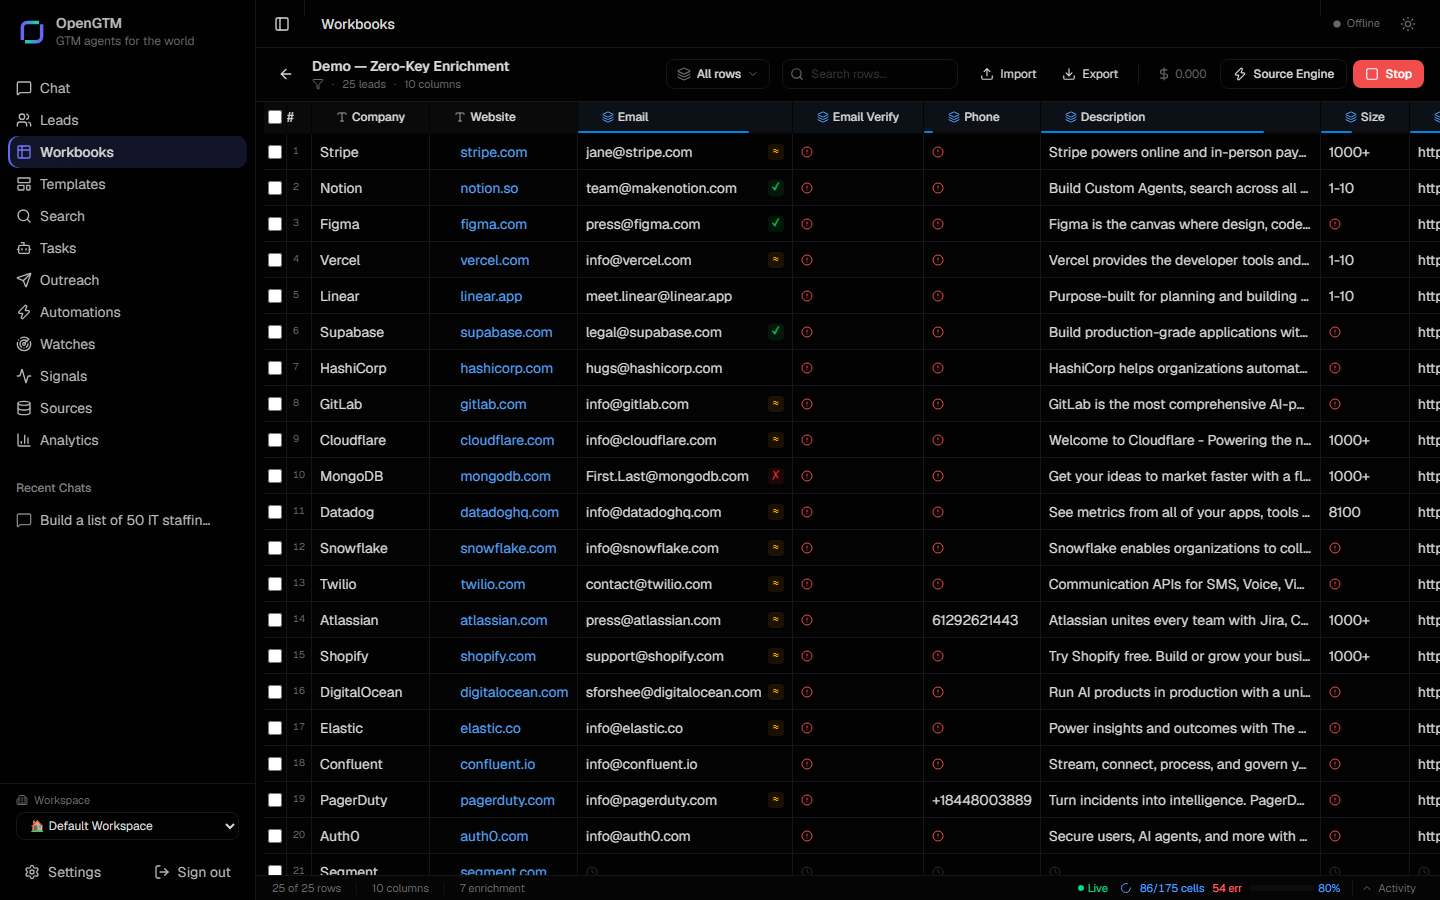
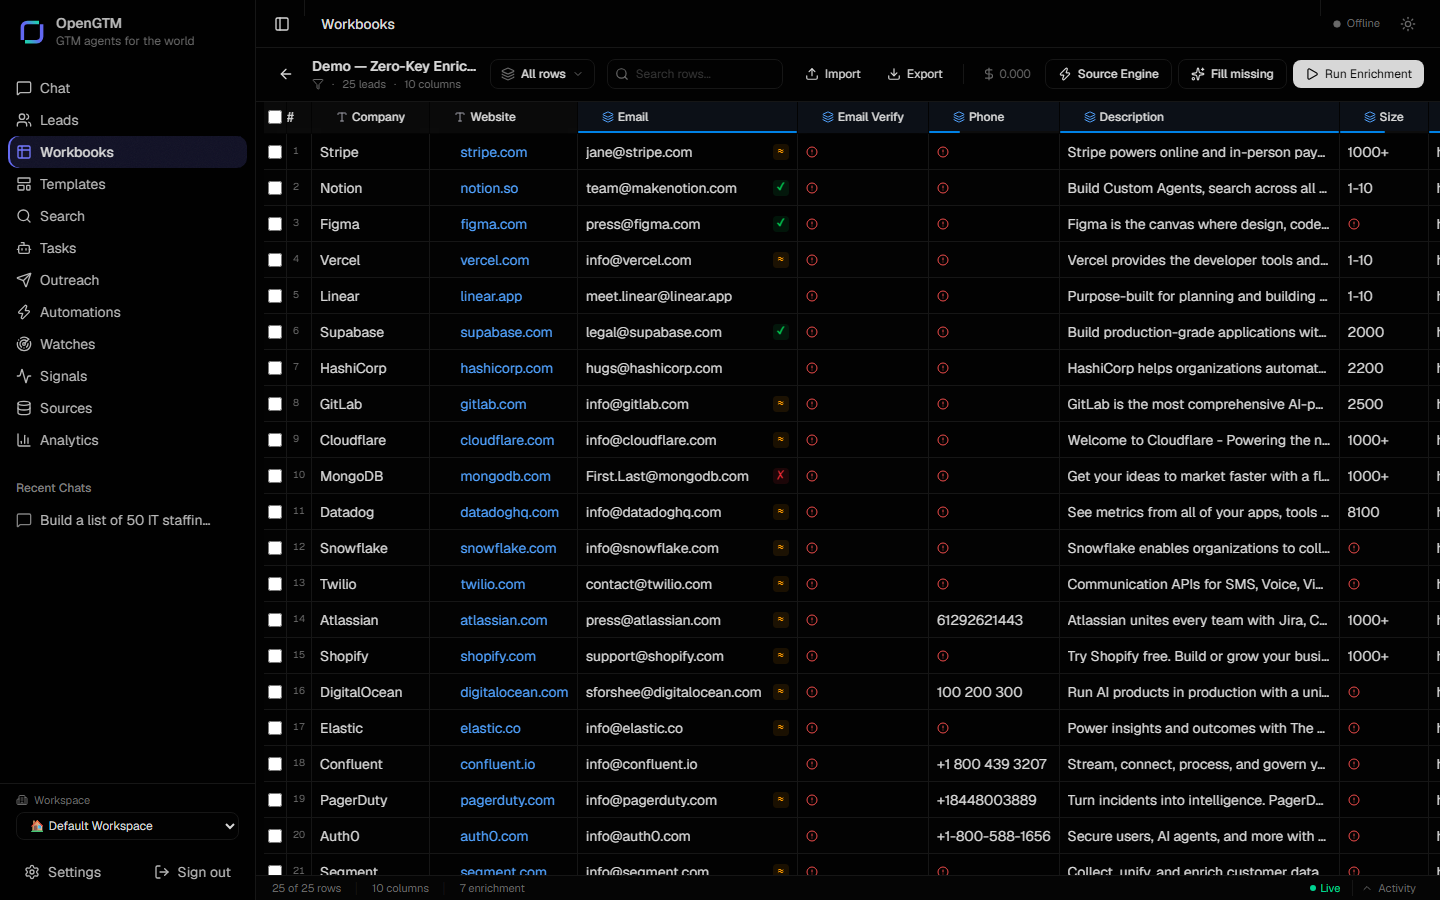
docs: add adaptive light mode demo gif

diff --git a/scripts/capture_launch_assets.py b/scripts/capture_launch_assets.py
@@ -71,6 +71,24 @@ def main() -> None:
         # The GIF is deliberately a short product tour rather than a huge video
         # disguised as a GIF; GitHub loads it quickly and every frame is legible.
         make_gif([login, workbook, cost, workbook], OUTPUT / "opengtm-demo.gif")
+
+        # Capture the same truthful tour in the app's light theme. Keeping this
+        # in one browser session prevents the dark and light demos from drifting.
+        page.get_by_role("button", name="Close").click(force=True)
+        page.get_by_title("Switch to light mode").click(force=True)
+        page.wait_for_timeout(500)
+        workbook_light = shot(page, "opengtm-workbook-light.png")
+
+        page.get_by_role("button", name="Source Engine", exact=True).click(force=True)
+        page.wait_for_timeout(500)
+        source_light = shot(page, "opengtm-source-engine-light.png")
+        page.get_by_role("tab").nth(1).click(force=True)
+        page.wait_for_timeout(500)
+        cost_light = shot(page, "opengtm-cost-control-light.png")
+        make_gif(
+            [workbook_light, source_light, cost_light, workbook_light],
+            OUTPUT / "opengtm-demo-light.gif",
+        )
         browser.close()
 
     print(f"Launch assets written to {OUTPUT}")

diff --git a/README.md b/README.md
@@ -30,7 +30,11 @@ your own provider keys, and with the bill shown to you *before* you run.
 </p>
 
 <p align="center">
-  <img src="docs/assets/opengtm-demo.gif" alt="OpenGTM demo: sign in, inspect a populated enrichment workbook, and see cost controls" width="100%" />
+  <picture>
+    <source media="(prefers-color-scheme: dark)" srcset="docs/assets/opengtm-demo.gif">
+    <source media="(prefers-color-scheme: light)" srcset="docs/assets/opengtm-demo-light.gif">
+    <img src="docs/assets/opengtm-demo-light.gif" alt="OpenGTM demo: inspect a populated enrichment workbook, source leads, and see cost controls" width="100%" />
+  </picture>
 </p>
 
 > **The 30-second version:** give OpenGTM a market, a list, or a workbook. It

diff --git a/LAUNCH.md b/LAUNCH.md
@@ -74,6 +74,7 @@ OpenGTM is self-hostable, BYOK, and shows the estimated bill before a run.
 
 - `docs/assets/opengtm-social-preview.png` – 1280×640 launch card.
 - `docs/assets/opengtm-demo.gif` – short GitHub-friendly real-product tour.
+- `docs/assets/opengtm-demo-light.gif` – light-mode version of the product tour.
 - `docs/assets/opengtm-workbook.png` – seeded workbook.
 - `docs/assets/opengtm-cost-control.png` – spend controls.
 - `docs/assets/opengtm-source-engine.png` – sourcing and living-workbook panel.
